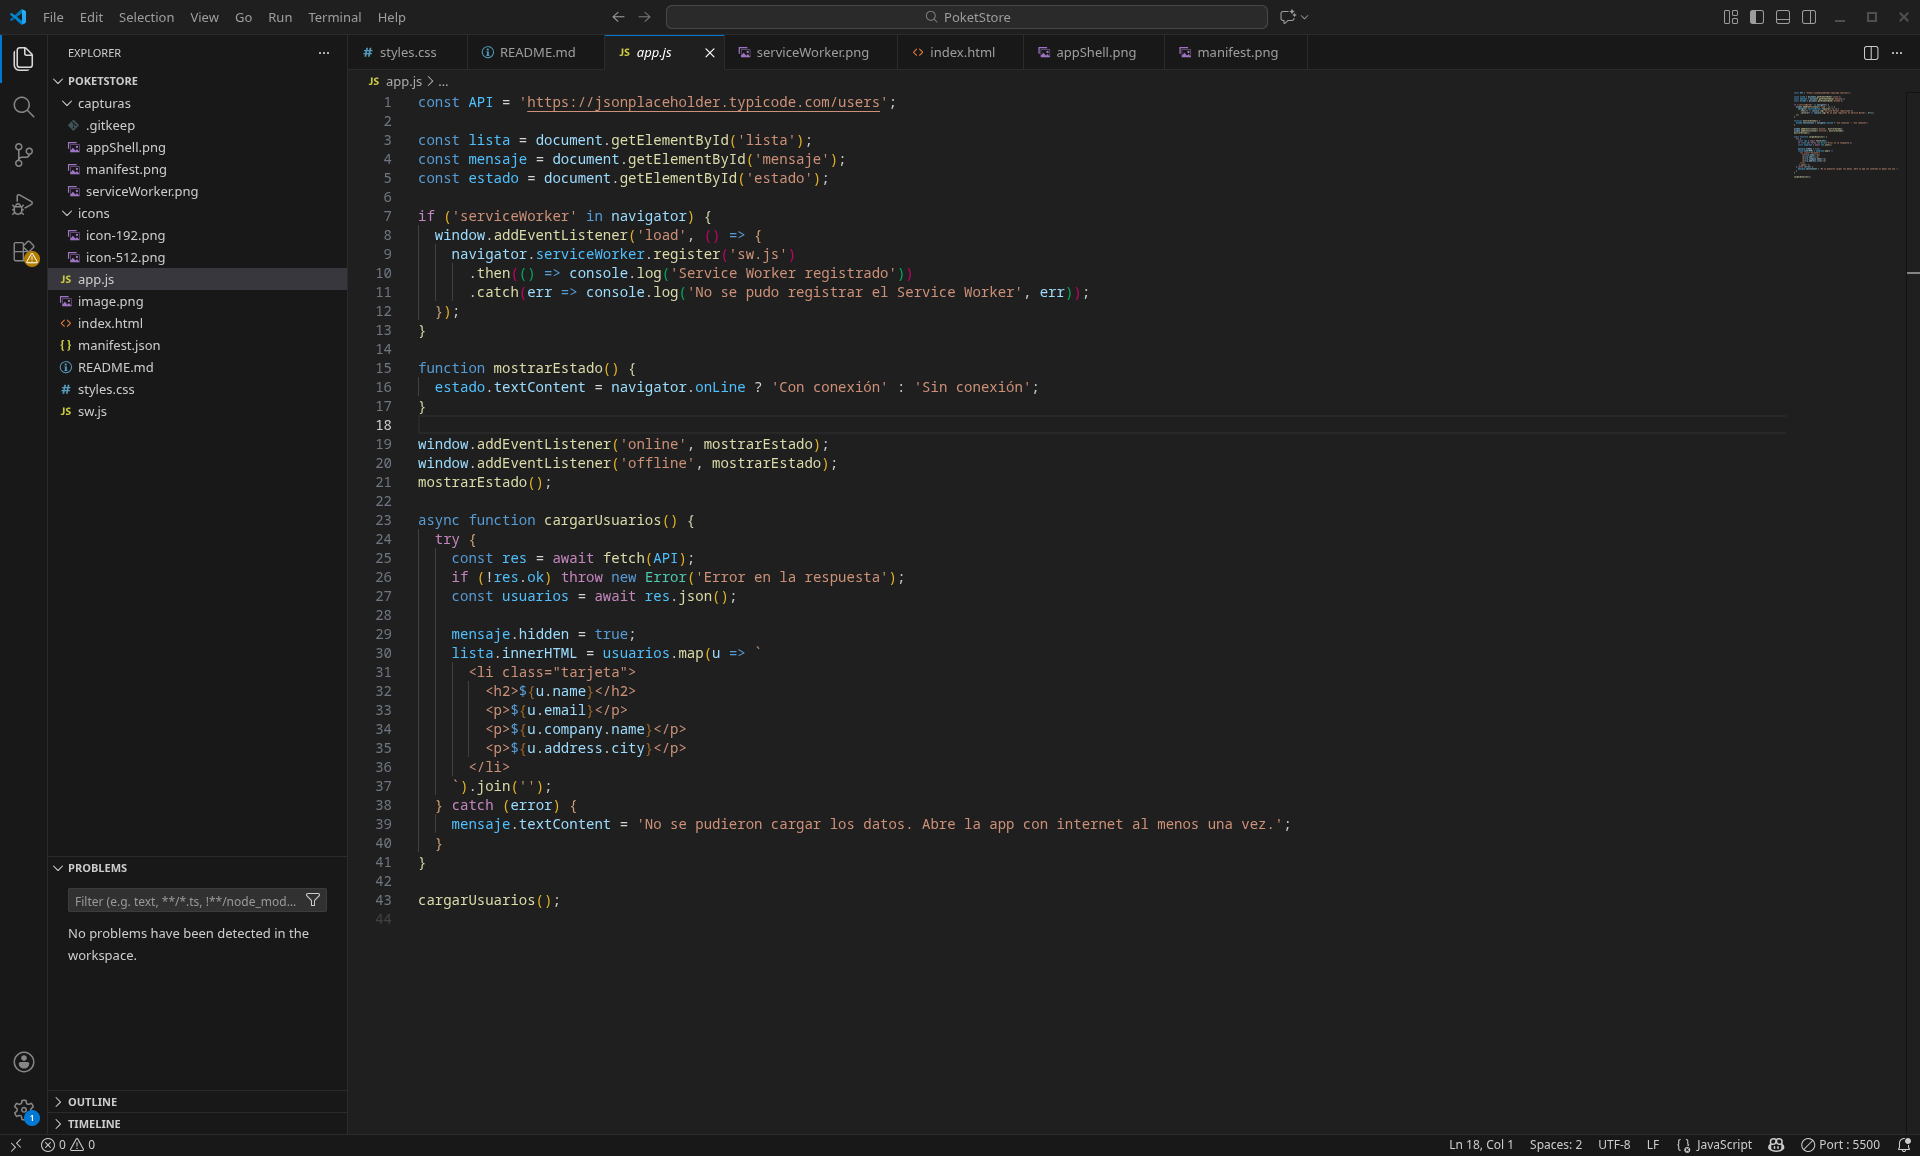
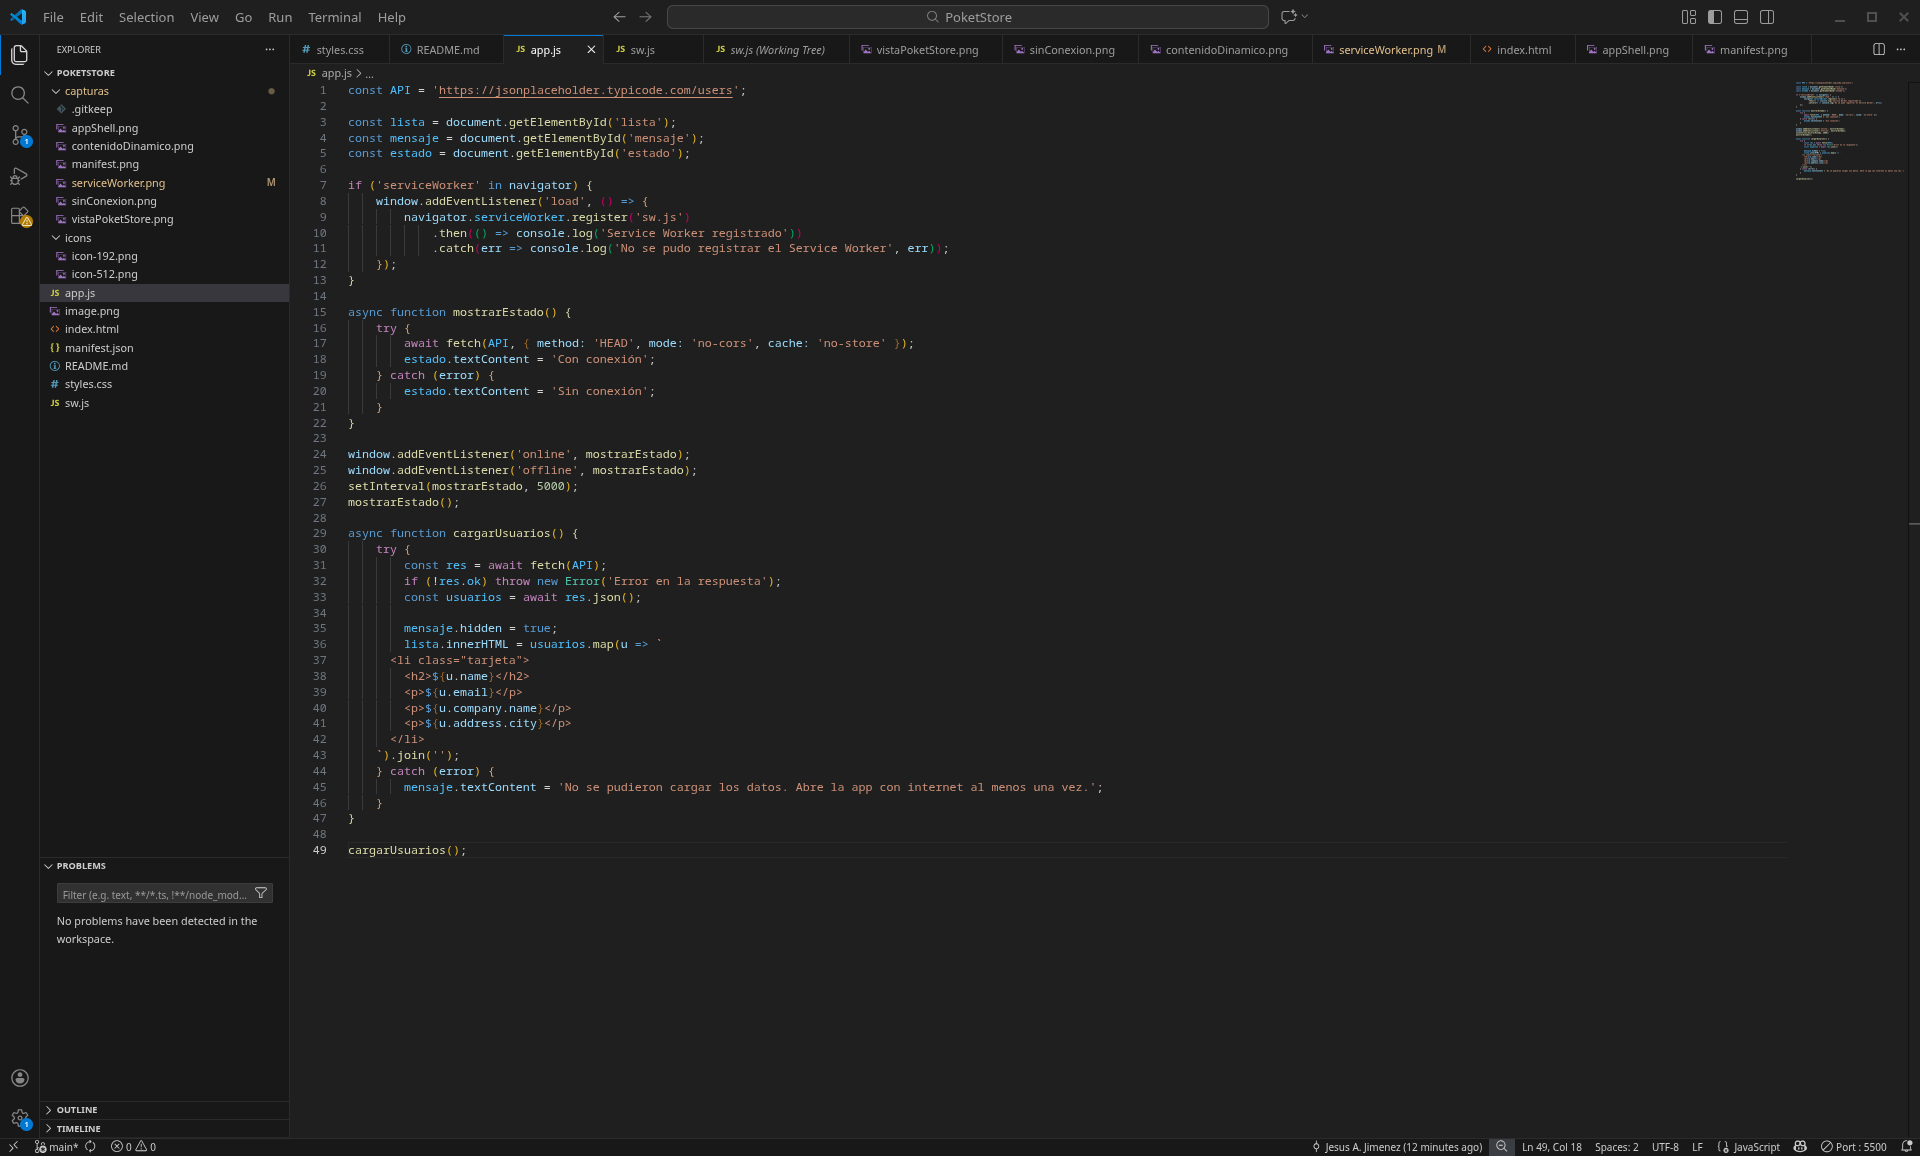
Update the images

diff --git a/README.md b/README.md
@@ -32,8 +32,7 @@ Después se abre `http://localhost:8000` en Chrome o Edge.
 
 Lo escribí a mano con `name`, `short_name`, `start_url`, `display: "standalone"`, el color de fondo, el color del tema (`#1f6f5c`) y dos iconos (192x192 y 512x512). Con esto el navegador permite instalar la app.
 
-![Manifiesto en DevTools]
-![alt text](capturas/manifest.png)
+![Manifesto](capturas/manifest.png)
 
 ### 2. App Shell (index.html y styles.css)
 
@@ -57,7 +56,8 @@ Programé los tres eventos del ciclo de vida:
 
 Con `fetch()` se piden los usuarios a `https://jsonplaceholder.typicode.com/users` y se pintan como tarjetas (nombre, correo, empresa y ciudad). También se registra el Service Worker y en el pie de página se muestra si hay conexión o no.
 
-![Lista de usuarios](capturas/contenidoDinamico.png)
+![Codifo del app](capturas/contenidoDinamico.png)
+![Lista de usuarios](capturas/listaUsuarios.png)
 
 ## Cómo probar que funciona sin internet
 
